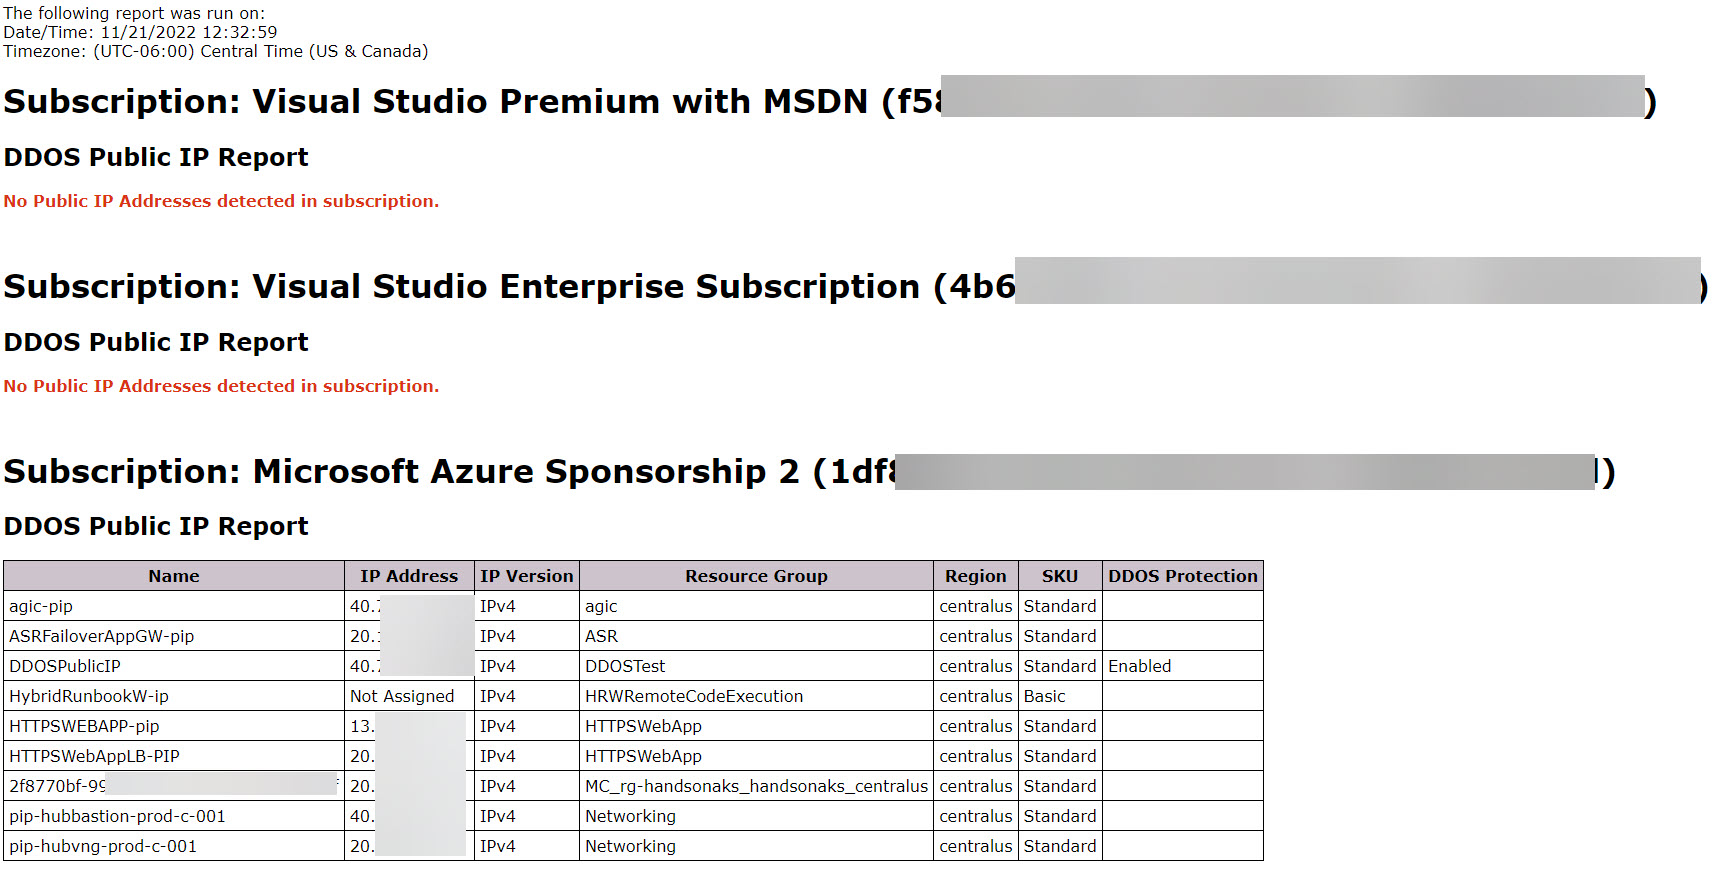
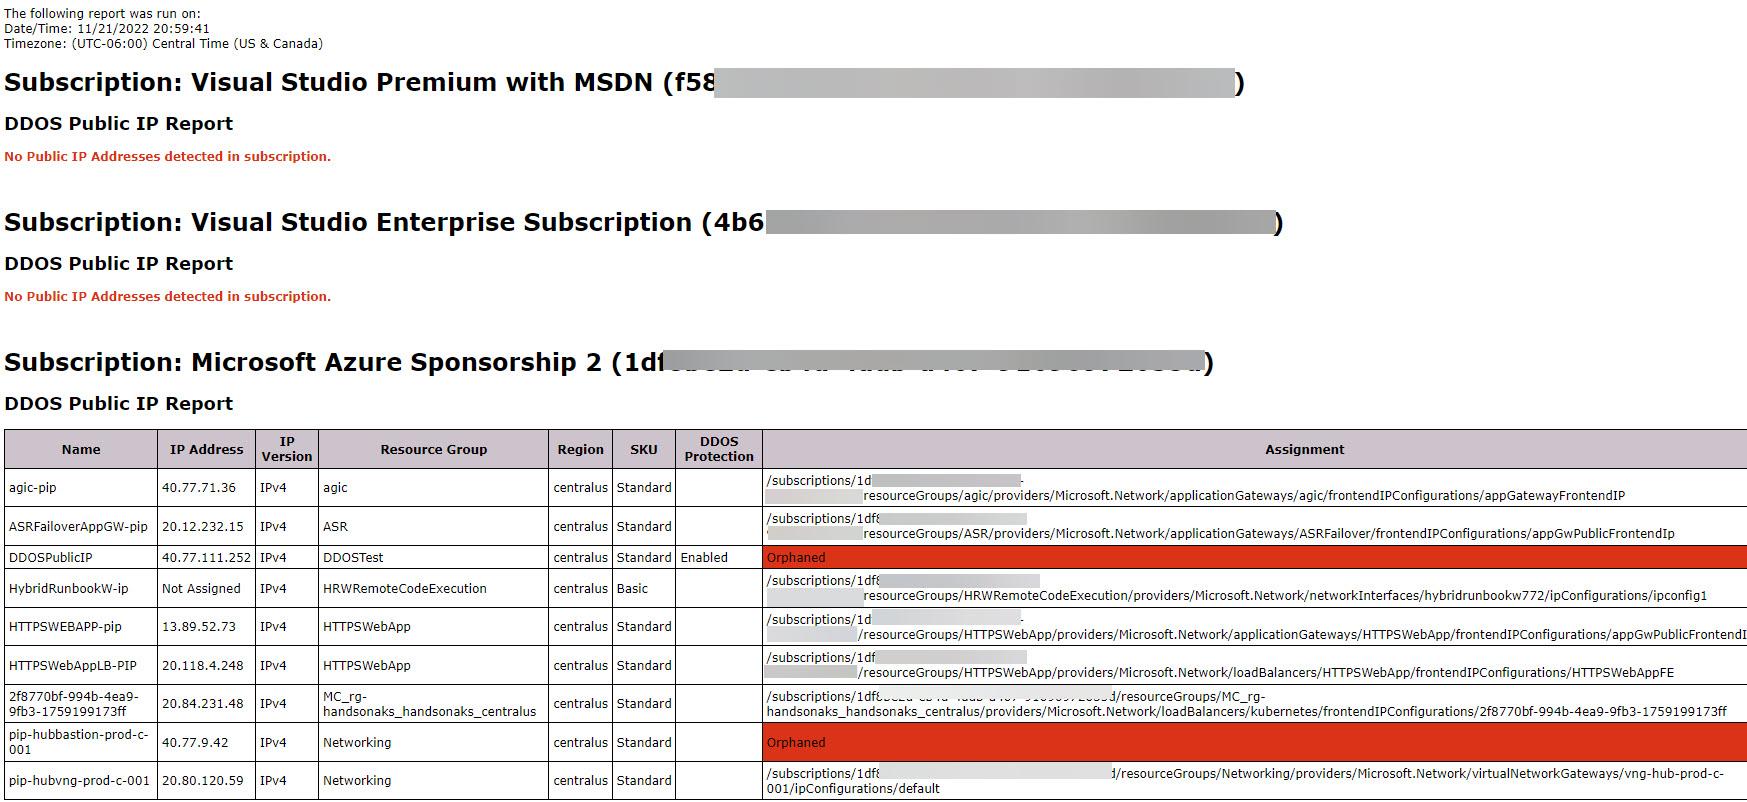
Added Public IP Assignment to the AzPublicIPReport PowerShell Script.

diff --git a/PowerShell/AzPublicIPReport/README.md b/PowerShell/AzPublicIPReport/README.md
@@ -32,12 +32,23 @@ This script creates an HTML Report on Public IP Information across a single or a
 
     ![Alt text](./DemoScreenshots/demo3.jpg?raw=true)
 
-   Verify the information reported.
+   Verify the information reported. As you will see, the report will include the following pieces of information about the Public IP Resource, such as:
+
+    * Name
+    * Address
+    * Version
+    * Resource Group
+    * Region
+    * SKU
+    * DDOS Protection
+    * Assignment - what resource the Public IP Resource is assigned to.  If none, the cell will be colored Red with the text, Orphaned. 
+  
+    <br/>
 
     ![Alt text](./DemoScreenshots/demo4.jpg?raw=true)
 
 
-3. To create a separate HTML Outputs for each Azure Subscription, leverage -SingleHTMLOutput $false.  
+1. To create a separate HTML Outputs for each Azure Subscription, leverage -SingleHTMLOutput $false.  
 
      The command we execute will be:
     ```PowerShell
